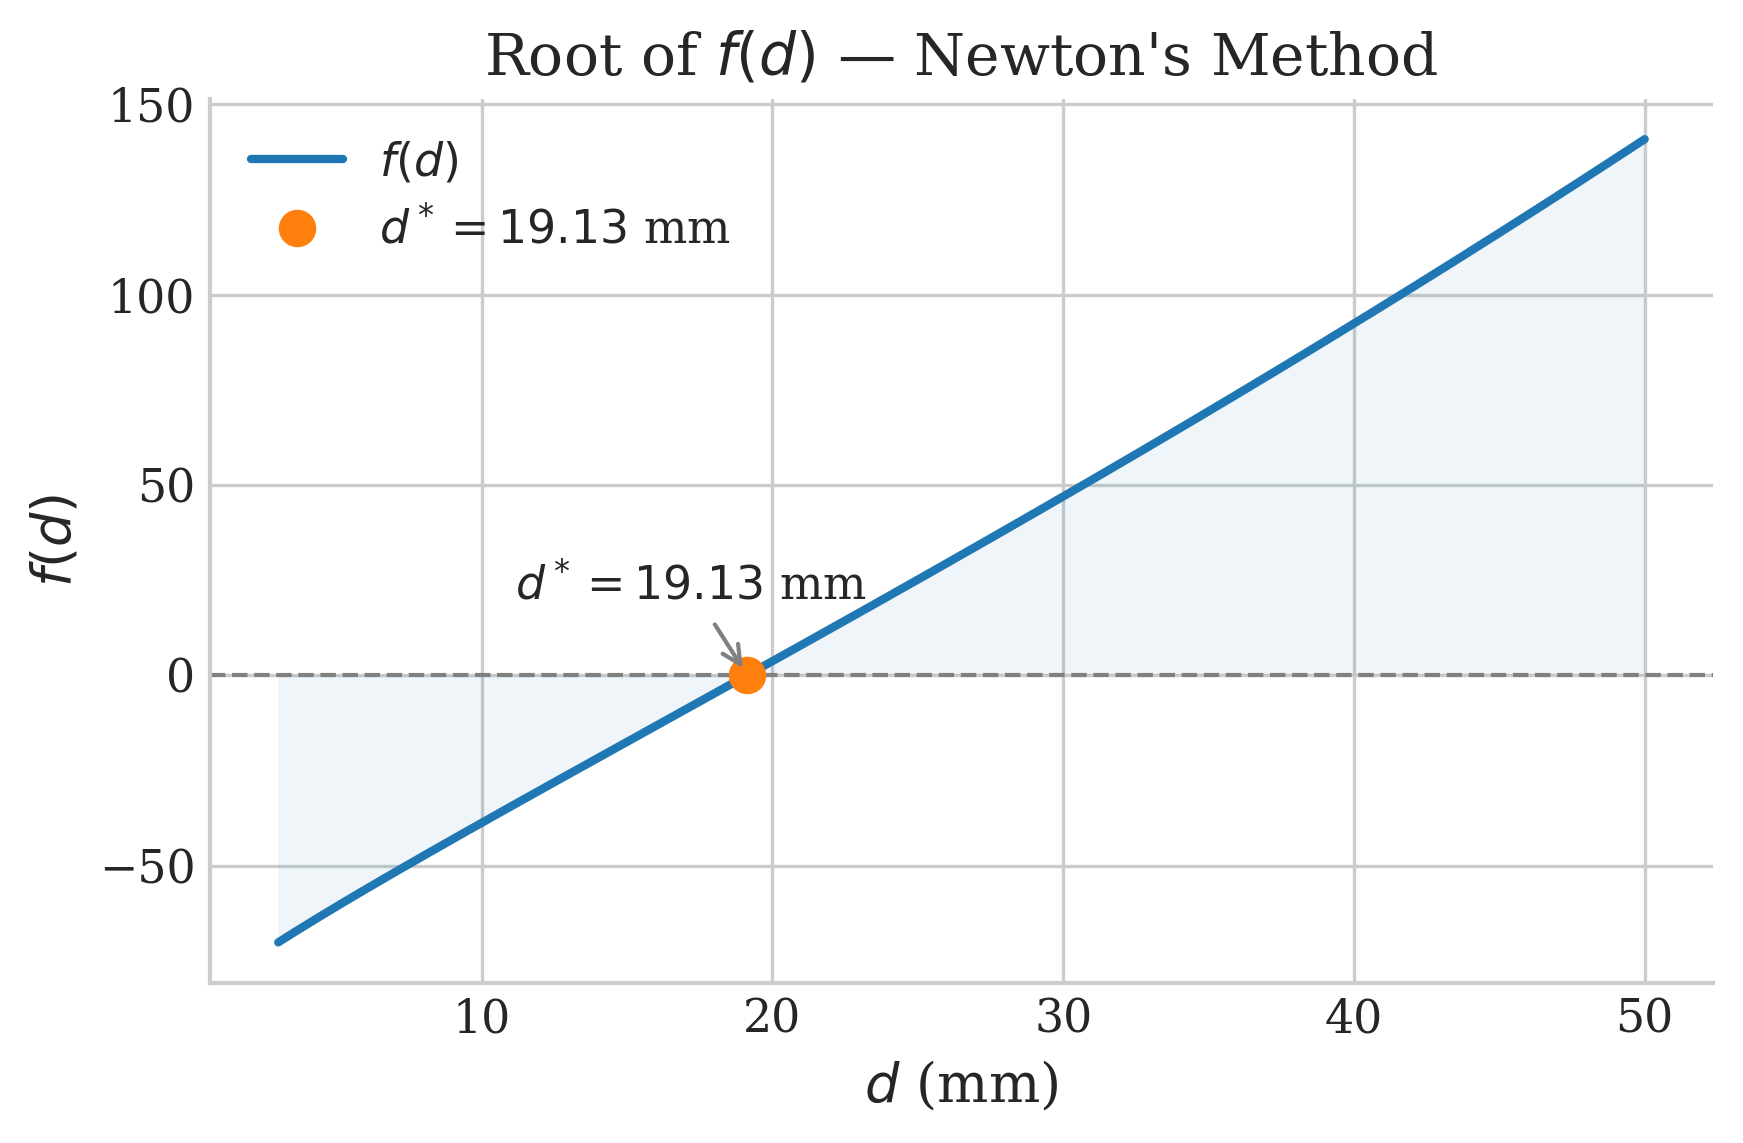
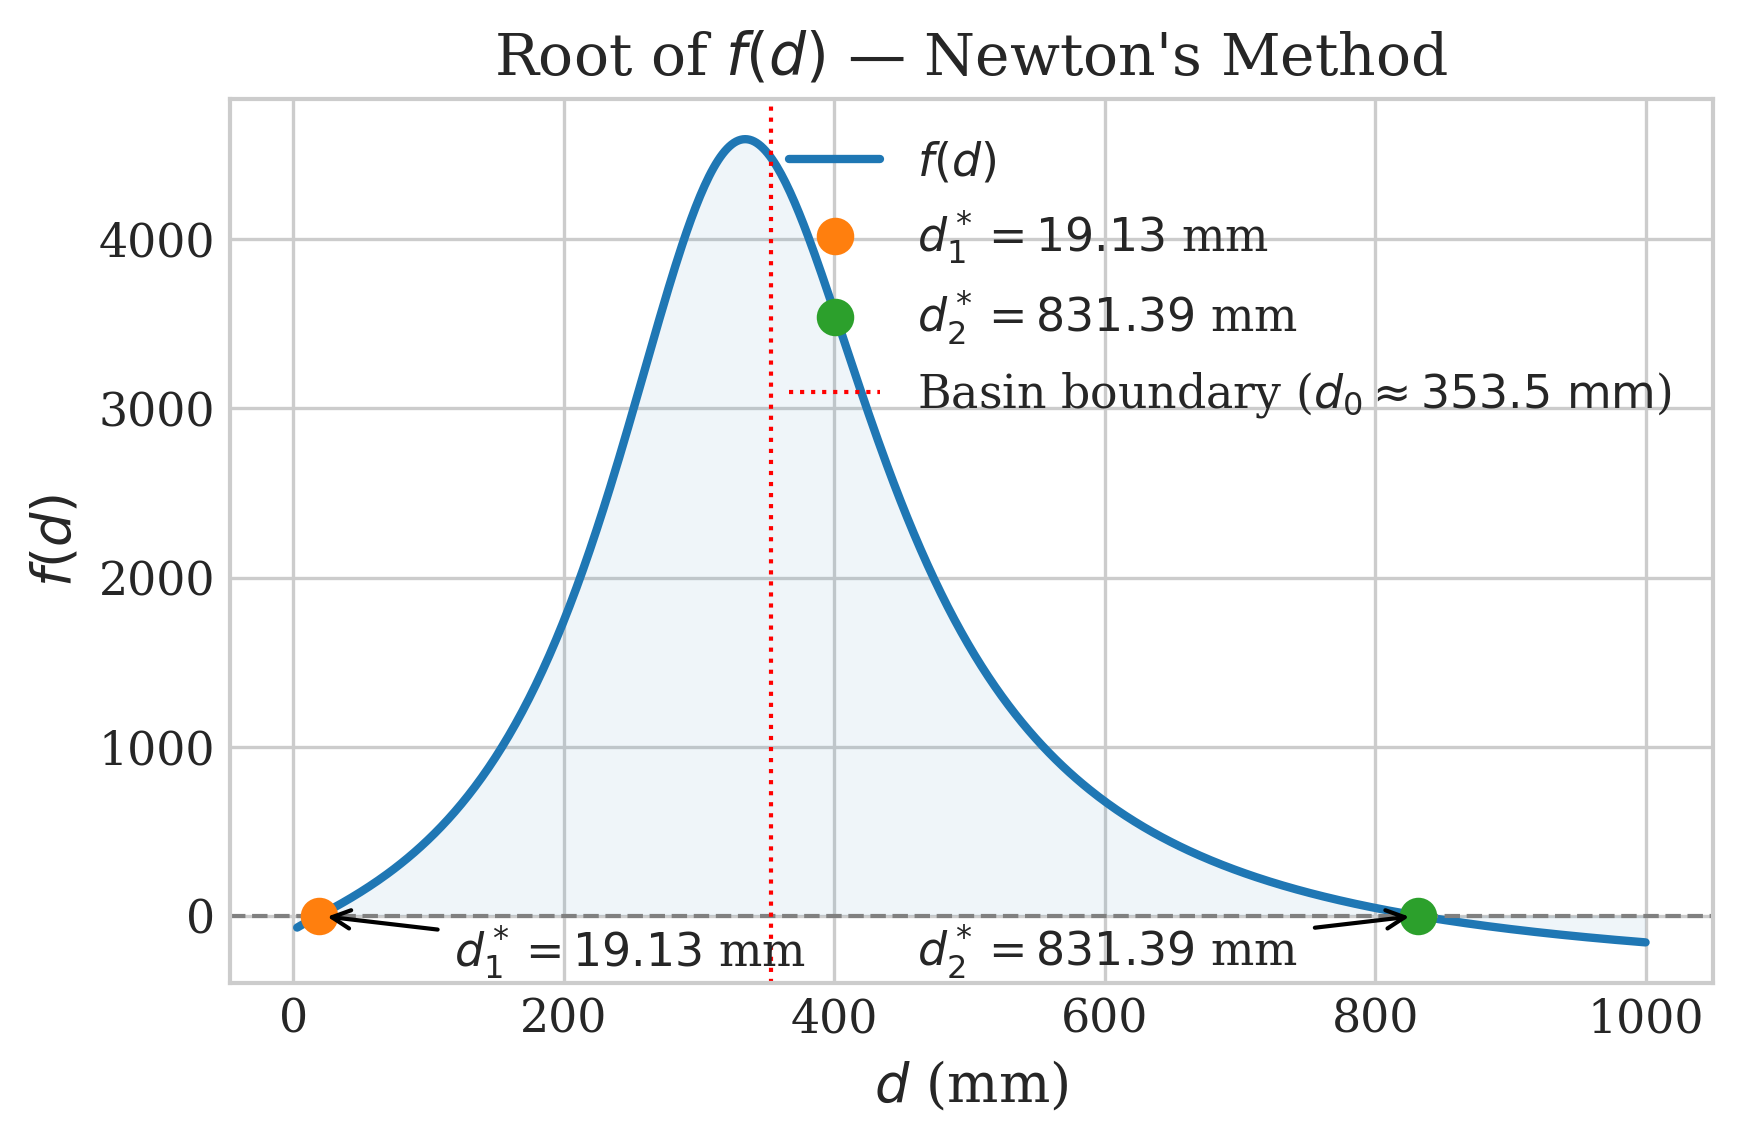
wip

diff --git a/Project/part1.1_diameter.py b/Project/part1.1_diameter.py
@@ -10,6 +10,7 @@ from typing import Callable
 import matplotlib.pyplot as plt
 import matplotlib.ticker as ticker
 import numpy as np
+import scipy.optimize as opt
 
 
 @dataclass
@@ -77,8 +78,7 @@ def NewtonRaphson(
 
 
 def main():
-    # -------------- Newton-Raphson -------------------------
-    # Known constants
+    # ============= Setup =============
     Q = 801368  # W
     Aex = 64.15  # m^2
     dTm = 29.6  # °C
@@ -90,7 +90,6 @@ def main():
     kw = 60  # W/m°C
 
     C = Q / (Aex * dTm)
-
     d_0 = 0.007  # m
     tolerance = 1e-8
 
@@ -108,28 +107,11 @@ def main():
     def f_prime(d):
         return -g_prime(d) / g(d) ** 2
 
-    results: NewtonRaphsonResult = NewtonRaphson(
-        f=f, f_prime=f_prime, x0=d_0, tolerance=tolerance, max_iterations=100
-    )
-    print(f"Converged on: {results.final_x}")
-
-    # -------------- Order of Convergence -------------------------
-    errors: list[float] = [abs(x - results.final_x) for x in results.xs]
-    p: list[float] = [
-        np.log(abs(errors[x + 1] / errors[x])) / np.log(abs(errors[x] / errors[x - 1]))
-        for x in range(1, len(errors) - 1)
-        if errors[x] > 0 and errors[x - 1] > 0 and errors[x + 1]
-    ]
-    for i, pi in enumerate(p):
-        print(f"p_{i + 1} = {pi:.6f}")
-        print(f"Iterations: {len(results.xs) - 1}")
-    print(f"Errors: {errors}")
-    # -------------- Verification -------------------------
+    starting_vals: np.ndarray = np.linspace(d_0, 0.7, 13)
 
     # [PLOT_START]
-    # ============= Plots =============
+    # ============= Plot Setup =============
     plt.style.use("seaborn-v0_8-whitegrid")
-
     SMALL, MED, BIG = 11, 13, 14
     plt.rcParams.update(
         {
@@ -141,32 +123,98 @@ def main():
             "ytick.labelsize": SMALL,
             "legend.fontsize": SMALL,
             "figure.dpi": 300,
-            "axes.spines.top": False,
-            "axes.spines.right": False,
         }
     )
 
-    # ------------- Plot Function -------------
-    fig1, ax1 = plt.subplots(figsize=(6, 4))
+    fig_conv, ax_conv = plt.subplots(figsize=(6, 4))
+    # [PLOT_END]
 
-    d_plot = np.linspace(0.003, 0.05, 600)
+    # ============= Loop =============
+    with open("results.txt", "w") as out:
+        out.write(
+            f"{'x0':>12}  {'d*':>22}  {'Iterations':>10}  {'p':>10}  {'Scipy d*':>22}  {'|d* - Scipy|':>22}\n"
+        )
+        out.write("-" * 109 + "\n")
+
+        for x0 in starting_vals:
+            results: NewtonRaphsonResult = NewtonRaphson(
+                f=f, f_prime=f_prime, x0=x0, tolerance=tolerance, max_iterations=100
+            )
+
+            # ------------- Order of Convergence -------------
+            errors: list[float] = [abs(x - results.final_x) for x in results.xs]
+            p: list[float] = [
+                np.log(abs(errors[k + 1] / errors[k]))
+                / np.log(abs(errors[k] / errors[k - 1]))
+                for k in range(1, len(errors) - 1)
+                if errors[k] > 0 and errors[k - 1] > 0 and errors[k + 1] > 0
+            ]
+
+            # ------------- Verification -------------
+            scipy_result = opt.fsolve(func=f, x0=x0, fprime=f_prime)[0]
+
+            # ------------- Write to file -------------
+            p_str = f"{p[0]:.6f}" if p else "N/A"
+            delta_scipy = abs(results.final_x - scipy_result)
+            out.write(
+                f"{x0 * 1000:>11.4f}mm  "
+                f"{results.final_x:>22.15f}  "
+                f"{len(results.xs) - 1:>10}  "
+                f"{p_str:>10}  "
+                f"{scipy_result:>22.15f}  "
+                f"{delta_scipy:>22.2e}\n"
+            )
+            # [PLOT_START]
+            # ------------- Add to convergence plot -------------
+            residuals = [abs(fx) for fx in results.fs]
+            ax_conv.semilogy(
+                results.ns,
+                residuals,
+                "o-",
+                lw=1.5,
+                ms=5,
+                label=rf"$d_0 = {x0 * 1000:.2f}$ mm",
+            )
+            # [PLOT_END]
+
+    # [PLOT_START]
+    # ------------- Plot f(d) -------------
+    fig1, ax1 = plt.subplots(figsize=(6, 4))
+    d_plot = np.linspace(0.003, 1, 600)
     f_plot = [f(d) for d in d_plot]
+    final_result = NewtonRaphson(
+        f=f, f_prime=f_prime, x0=d_0, tolerance=tolerance, max_iterations=100
+    )
 
     ax1.plot(d_plot * 1000, f_plot, lw=2, label=r"$f(d)$")
     ax1.fill_between(d_plot * 1000, f_plot, alpha=0.07)
     ax1.axhline(0, color="gray", lw=1, ls="--")
     ax1.plot(
+        final_result.final_x * 1000,
+        0,
+        "o",
+        ms=8,
+        label=rf"$d_1^* = {final_result.final_x * 1000:.2f}$ mm",
+    )
+    ax1.annotate(
+        rf"$d_1^* = {final_result.final_x * 1000:.2f}$ mm",
+        xy=(final_result.final_x * 1000, 0),
+        xytext=(final_result.final_x * 1000 + 100, -300),
+        arrowprops=dict(arrowstyle="->", color="black"),
+        fontsize=SMALL,
+    )
+    ax1.plot(
         results.final_x * 1000,
         0,
         "o",
         ms=8,
-        label=rf"$d^* = {results.final_x * 1000:.2f}$ mm",
+        label=rf"$d_2^* = {results.final_x * 1000:.2f}$ mm",
     )
     ax1.annotate(
-        rf"$d^* = {results.final_x * 1000:.2f}$ mm",
+        rf"$d_2^* = {results.final_x * 1000:.2f}$ mm",
         xy=(results.final_x * 1000, 0),
-        xytext=(results.final_x * 1000 - 8, 20),
-        arrowprops=dict(arrowstyle="->", color="gray"),
+        xytext=(results.final_x * 1000 - 370, -300),
+        arrowprops=dict(arrowstyle="->", color="black"),
         fontsize=SMALL,
     )
     ax1.set_xlabel(r"$d$ (mm)")
@@ -176,21 +224,14 @@ def main():
     fig1.tight_layout()
     fig1.savefig("plot_f.png", dpi=300, bbox_inches="tight")
 
-    # ------------- Plot Convergence -------------
-    residuals = [abs(fx) for fx in results.fs]
-
-    fig2, ax2 = plt.subplots(figsize=(5, 4))
-
-    ax2.semilogy(results.ns, residuals, "o-", lw=2, ms=8, label=r"$r_k = |f(d_k)|$")
-    ax2.semilogy(results.ns, errors, "s--", lw=2, ms=8, label=r"$e_k = |d_k - d^*|$")
-    ax2.set_xlabel(r"Iteration $k$")
-    ax2.set_ylabel(r"Magnitude")
-    ax2.set_title("Residual and Error — Newton's Method")
-    ax2.xaxis.set_major_locator(ticker.MultipleLocator(1))
-    ax2.legend(frameon=False)
-    fig2.tight_layout()
-    fig2.savefig("plot_convergence.png", dpi=300, bbox_inches="tight")
-
+    # ------------- Save convergence plot -------------
+    ax_conv.set_xlabel(r"Iteration $k$")
+    ax_conv.set_ylabel(r"$|f(d_k)|$")
+    ax_conv.set_title("Residual vs Starting Guess — Newton's Method")
+    ax_conv.xaxis.set_major_locator(ticker.MultipleLocator(1))
+    ax_conv.legend(frameon=False, fontsize=9)
+    fig_conv.tight_layout()
+    fig_conv.savefig("plot_convergence.png", dpi=300, bbox_inches="tight")
     # [PLOT_END]
 
 

diff --git a/Project/Appendix/part1.1_diameter.py b/Project/Appendix/part1.1_diameter.py
@@ -1,0 +1,129 @@
+"""
+SF1546 – Project VT2026
+24/3/2026
+Group 41
+"""
+
+from dataclasses import dataclass
+from typing import Callable
+
+import numpy as np
+
+@dataclass
+class NewtonRaphsonResult:
+    fs: list[float]
+    xs: list[float]
+    ns: list[int]
+    deltas: list[float]
+    final_x: float
+    converged: bool
+
+def NewtonRaphson(
+    f: Callable,
+    f_prime: Callable,
+    x0: float,
+    tolerance: float,
+    max_iterations: int,
+) -> NewtonRaphsonResult:
+    """
+    Newton-Raphson method to find a root of f starting from x0.
+    Args:
+        f: One variable function f(x)
+        f_prime: Derivative of f
+        x0: initial guess
+        tolerance: convergence tolerance on |f(x)|
+        max_iterations: maximum number of iterations
+    Returns:
+        Dataclass containing approximations, residuals, deltas, and iteration counts
+    """
+    ns: list[int] = []
+    fs: list[float] = []
+    xs: list[float] = []
+    deltas: list[float] = []
+
+    x = x0
+    n = 0
+    fx = f(x)
+
+    xs.append(x)
+    fs.append(fx)
+    deltas.append(float("inf"))
+    ns.append(n)
+
+    converged = abs(fx) <= tolerance
+
+    while abs(fx) > tolerance and n < max_iterations:
+        n += 1
+        df = f_prime(x)
+        x_new = x - (fx / df)
+        DeltaX = np.abs(x_new - x)
+        x = x_new
+        fx = f(x)
+
+        fs.append(fx)
+        ns.append(n)
+        xs.append(x)
+        deltas.append(DeltaX)
+
+    converged = abs(fx) <= tolerance
+
+    return NewtonRaphsonResult(
+        fs=fs, xs=xs, deltas=deltas, ns=ns, final_x=x, converged=converged
+    )
+
+def main():
+    # -------------- Newton-Raphson -------------------------
+    # Known constants
+    Q = 801368  # W
+    Aex = 64.15  # m^2
+    dTm = 29.6  # °C
+    Ds = 1.219  # m
+    Rfi = 1.76e-4  # m^2°C/W
+    Rfo = 1.76e-4  # m^2°C/W
+    hs = 356  # W/m^2°C
+    ht = 356  # W/m^2°C
+    kw = 60  # W/m°C
+
+    C = Q / (Aex * dTm)
+
+    d_0 = 0.007  # m
+    tolerance = 1e-8
+
+    def g(d):
+        return (
+            d / (Ds * ht) + d * Rfi / Ds + d * np.log(d / Ds) / (2 * kw) + Rfo + 1 / hs
+        )
+
+    def g_prime(d):
+        return 1 / (Ds * ht) + Rfi / Ds + (np.log(d / Ds) + 1) / (2 * kw)
+
+    def f(d):
+        return 1 / g(d) - C
+
+    def f_prime(d):
+        return -g_prime(d) / g(d) ** 2
+
+    results: NewtonRaphsonResult = NewtonRaphson(
+        f=f, f_prime=f_prime, x0=d_0, tolerance=tolerance, max_iterations=100
+    )
+    print(f"Converged on: {results.final_x}")
+
+    # -------------- Order of Convergence -------------------------
+    errors: list[float] = [abs(x - results.final_x) for x in results.xs]
+    p: list[float] = [
+        np.log(abs(errors[x + 1] / errors[x])) / np.log(abs(errors[x] / errors[x - 1]))
+        for x in range(1, len(errors) - 1)
+        if errors[x] > 0 and errors[x - 1] > 0 and errors[x + 1]
+    ]
+    for i, pi in enumerate(p):
+        print(f"p_{i + 1} = {pi:.6f}")
+        print(f"Iterations: {len(results.xs) - 1}")
+    print(f"Errors: {errors}")
+    # -------------- Verification -------------------------
+    import scipy.optimize as opt
+
+    verification_result: tuple = opt.fsolve(func=f, d_0, fprime=f_prime)
+    print(verification_result)
+
+if __name__ == "__main__":
+    main()
